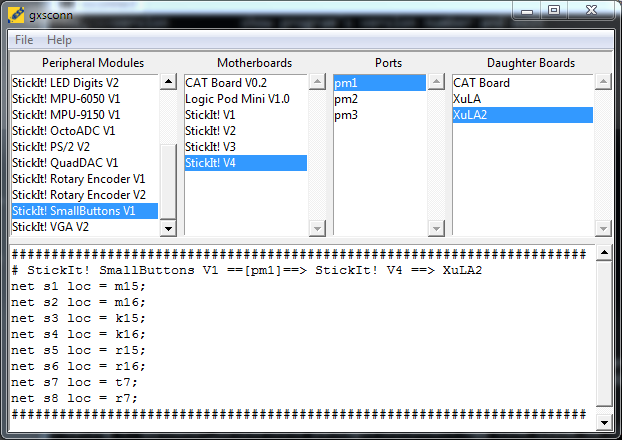
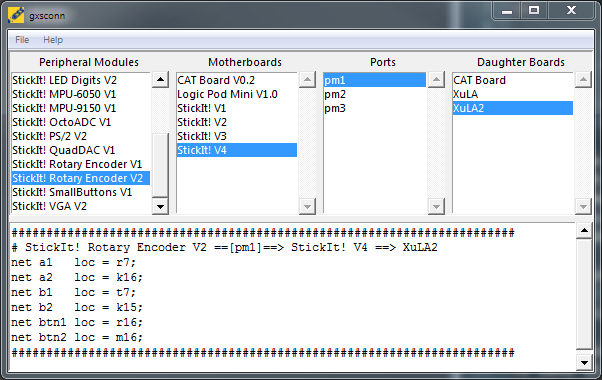
Changed using.md to refer to Rotary Encoder module.

diff --git a/docs/pages/using.md b/docs/pages/using.md
@@ -19,7 +19,7 @@ through a PMOD port, then the process is a bit more complicated:
  5. Include the UCF file in your ISE/Vivado project and compile it into a bitstream.
 
 That's a pretty big effort, so to get you started we've provided a 
-[pre-built project]({{site.product_repo}}/tree/master/FPGA/ButtonTest) 
+[pre-built project]({{site.product_repo}}/tree/master/FPGA/RotaryEncoderTest) 
 that you can modify for your own applications.
 
 The pre-built project uses a specific PMOD port and {{site.company_shortname}} FPGA board.

diff --git a/docs/notes.md b/docs/notes.md
@@ -13,4 +13,5 @@ Modifications to [Jekyll documentation theme](http://idratherbewriting.com/docum
  1. Product name in top navigation bar is set in `_includes/topnav.html`.
  1. Link to main repository is set in `_data/topnav.yml`.
  1. Summary and in-page TOC are disabled in `_layouts/page.html`.
+ 1. Make sure to set the Github repo to serve website from the /docs folder.
  
